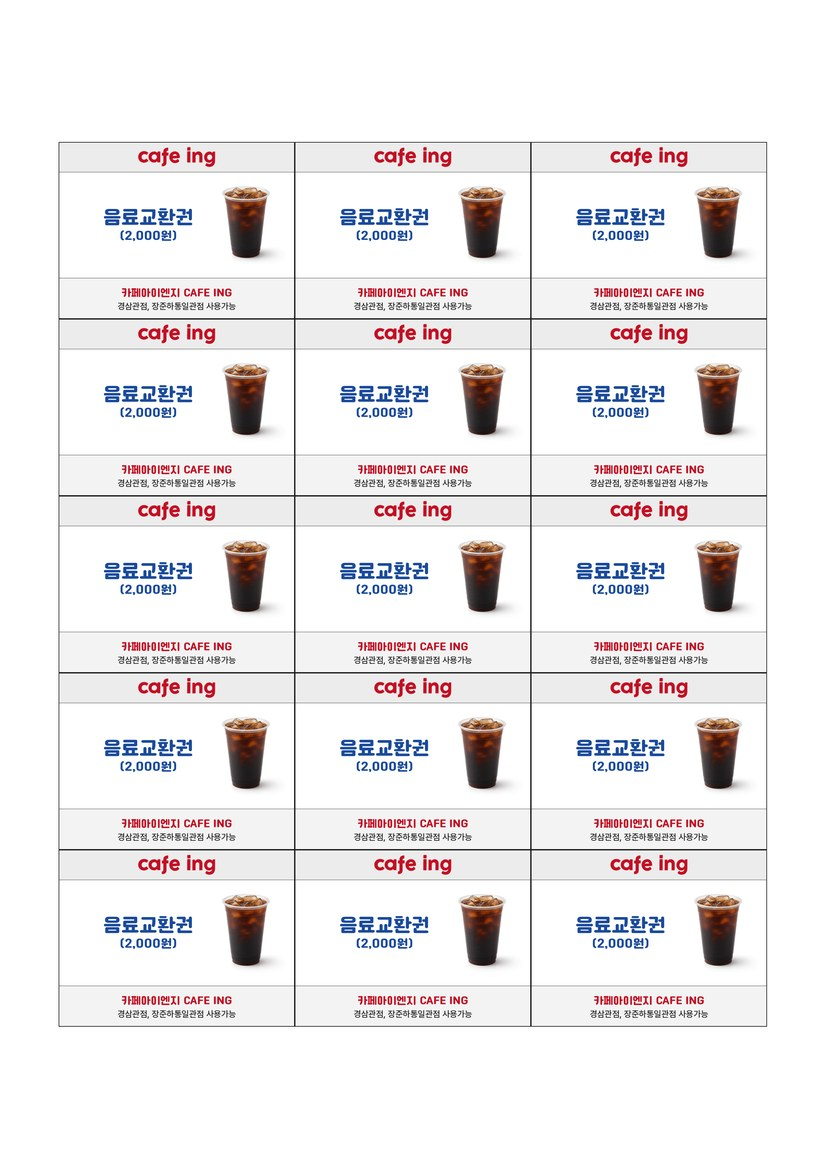
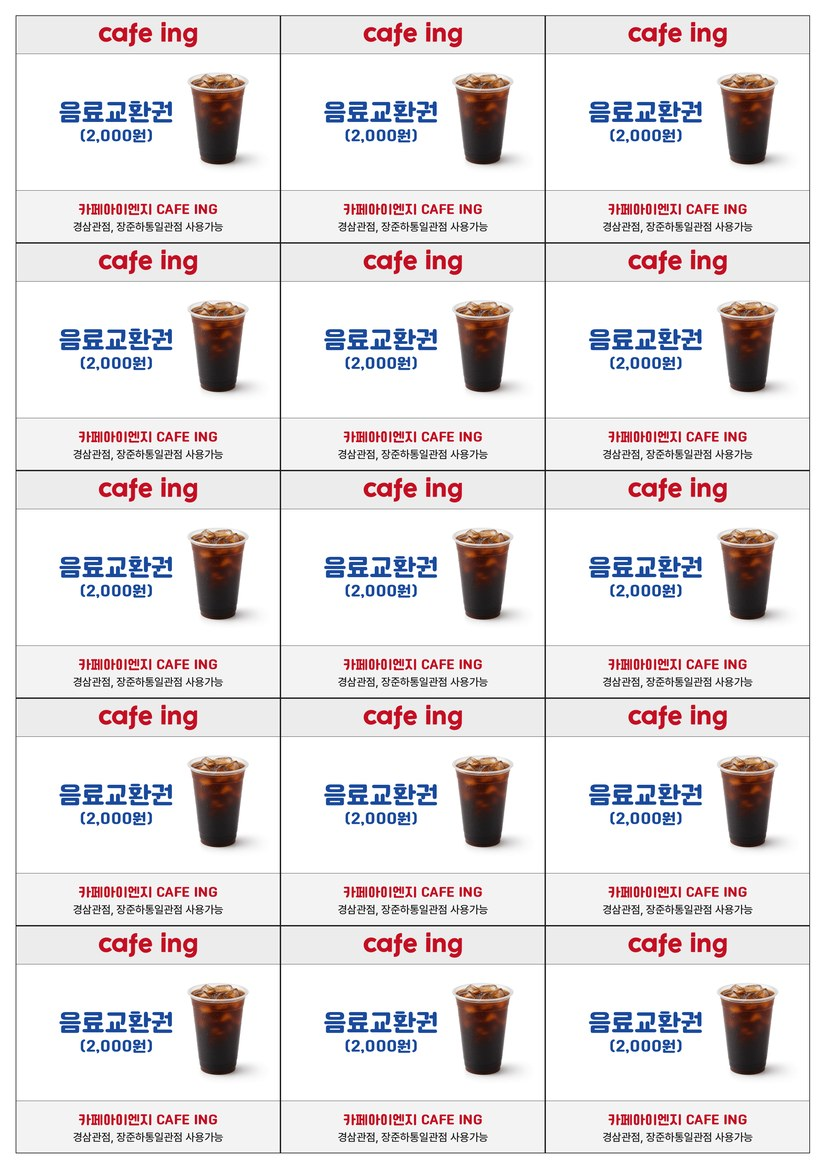
Enlarge the 15 coupons so they nearly fill A4.
Keep the 3-by-5 grid and scale type, logo, and drink art with a 4mm page margin.

diff --git a/cafe-ing-coupon/index.html b/cafe-ing-coupon/index.html
@@ -41,19 +41,19 @@
       height: 297mm;
       background: #fff;
       margin: 16px auto;
-      padding: 36.0mm 15.0mm;
+      padding: 4.0mm 4.0mm;
       box-shadow: 0 4px 24px rgba(0,0,0,.25);
     }
     .grid {
-      width: 180mm;
-      height: 225mm;
+      width: 202.0mm;
+      height: 289.0mm;
       display: grid;
-      grid-template-columns: repeat(3, 60mm);
-      grid-template-rows: repeat(5, 45mm);
+      grid-template-columns: repeat(3, 67.33333333333333mm);
+      grid-template-rows: repeat(5, 57.8mm);
     }
     .coupon {
-      width: 60mm;
-      height: 45mm;
+      width: 67.33333333333333mm;
+      height: 57.8mm;
       border: 0.35pt solid #1e1e1e;
       display: flex;
       flex-direction: column;
@@ -61,7 +61,7 @@
       overflow: hidden;
     }
     .header {
-      height: 7.6mm;
+      height: 9.761777777777777mm;
       background: #ececec;
       border-bottom: 0.35pt solid #323232;
       display: flex;
@@ -69,7 +69,7 @@
       justify-content: center;
     }
     .header .logo {
-      height: 5.2mm;
+      height: 6.67911111111111mm;
       width: auto;
       display: block;
     }
@@ -93,16 +93,16 @@
       font-weight: 700;
     }
     .copy h2 {
-      font-size: 13.6pt;
+      font-size: 17.46844444444444pt;
       line-height: 1.15;
       font-weight: 700;
     }
     .copy p {
-      font-size: 8.6pt;
-      margin-top: 0.8mm;
+      font-size: 11.04622222222222pt;
+      margin-top: 1.0275555555555556mm;
     }
     .drink {
-      height: 20.2mm;
+      height: 25.945777777777774mm;
       width: auto;
       max-width: 42%;
       object-fit: contain;
@@ -110,7 +110,7 @@
       flex-shrink: 0;
     }
     .footer {
-      height: 10.4mm;
+      height: 13.35822222222222mm;
       background: #f3f3f3;
       border-top: 0.35pt solid #323232;
       display: flex;
@@ -126,12 +126,12 @@
       color: #C30F23;
       font-family: "Cafe24Ssurround", sans-serif;
       font-weight: 700;
-      font-size: 7.35pt;
+      font-size: 9.440666666666665pt;
     }
     .footer .place {
       color: #1c1c1c;
       font-family: "Pretendard", sans-serif;
-      font-size: 6.25pt;
+      font-size: 8.027777777777777pt;
     }
     @media print {
       @page { size: A4; margin: 0; }
@@ -148,7 +148,7 @@
 </head>
 <body>
   <div class="toolbar">
-    <div>CAFE ING 음료교환권 (2,000원) · 1매 60×45mm · A4 15매</div>
+    <div>CAFE ING 음료교환권 (2,000원) · 1매 67.3×57.8mm · A4 15매</div>
     <button type="button" onclick="window.print()">인쇄 / PDF 저장</button>
   </div>
   <div class="sheet">

diff --git a/cafe-ing-coupon/generate.py b/cafe-ing-coupon/generate.py
@@ -1,5 +1,5 @@
 #!/usr/bin/env python3
-"""CAFE ING 음료교환권 — 60×45mm × 15매 A4 인쇄물 생성."""
+"""CAFE ING 음료교환권 — A4를 거의 채운 15매 인쇄물 생성."""
 
 from __future__ import annotations
 
@@ -17,12 +17,14 @@ ASSETS = ROOT / "assets"
 FONTS = ROOT / "fonts"
 OUTPUT = ROOT / "output"
 
-COUPON_W_MM = 60
-COUPON_H_MM = 45
 COLS = 3
 ROWS = 5
 A4_W_MM = 210
 A4_H_MM = 297
+PAGE_MARGIN_MM = 4.0
+COUPON_W_MM = (A4_W_MM - 2 * PAGE_MARGIN_MM) / COLS
+COUPON_H_MM = (A4_H_MM - 2 * PAGE_MARGIN_MM) / ROWS
+SCALE = COUPON_H_MM / 45.0
 DPI = 300
 
 NAVY = (26, 74, 156)
@@ -36,8 +38,15 @@ FOOTER_BG = (243, 243, 243)
 LINE = (50, 50, 50)
 BORDER = (30, 30, 30)
 
-HEADER_H_MM = 7.6
-FOOTER_H_MM = 10.4
+HEADER_H_MM = 7.6 * SCALE
+FOOTER_H_MM = 10.4 * SCALE
+TITLE_PT = 13.6 * SCALE
+PRICE_PT = 8.6 * SCALE
+BRAND_PT = 7.35 * SCALE
+PLACE_PT = 6.25 * SCALE
+DRINK_H_MM = 20.2 * SCALE
+LOGO_H_MM = 5.2 * SCALE
+PLACE_LINE = "경삼관점, 장준하통일관점 사용가능"
 
 
 def mm_to_px(mm_val: float, dpi: int = DPI) -> int:
@@ -101,12 +110,12 @@ def draw_coupon_pdf(c: canvas.Canvas, x: float, y: float, drink: ImageReader, lo
     c.line(x, y + footer_h, x + w, y + footer_h)
 
     c.setFillColorRGB(*rgb(RED))
-    c.setFont("Display", 7.35)
-    c.drawCentredString(x + w / 2, y + footer_h - 4.15 * mm, BRAND_KO)
+    c.setFont("Display", BRAND_PT)
+    c.drawCentredString(x + w / 2, y + footer_h * 0.58, BRAND_KO)
 
     c.setFillColorRGB(*rgb(INK))
-    c.setFont("Body", 6.25)
-    c.drawCentredString(x + w / 2, y + 3.15 * mm, "경삼관점, 장준하통일관점 사용가능")
+    c.setFont("Body", PLACE_PT)
+    c.drawCentredString(x + w / 2, y + footer_h * 0.28, PLACE_LINE)
 
     # middle: title + price vertically centered with the drink
     body_top = y + h - header_h
@@ -114,9 +123,9 @@ def draw_coupon_pdf(c: canvas.Canvas, x: float, y: float, drink: ImageReader, lo
     body_h = body_top - body_bot
     body_mid_x = x + w * 0.38
 
-    title_size = 13.6
-    price_size = 8.6
-    gap = 1.2 * mm
+    title_size = TITLE_PT
+    price_size = PRICE_PT
+    gap = 1.2 * mm * SCALE
     title_ascent = pdfmetrics.getAscent("Display") * title_size / 1000
     title_descent = abs(pdfmetrics.getDescent("Display")) * title_size / 1000
     price_ascent = pdfmetrics.getAscent("Display") * price_size / 1000
@@ -132,9 +141,9 @@ def draw_coupon_pdf(c: canvas.Canvas, x: float, y: float, drink: ImageReader, lo
     c.setFont("Display", price_size)
     c.drawCentredString(body_mid_x, price_baseline, "(2,000원)")
 
-    drink_h = 20.2 * mm
+    drink_h = DRINK_H_MM * mm
     drink_w = drink_h * (697 / 848)
-    drink_x = x + w - drink_w - 2.2 * mm
+    drink_x = x + w - drink_w - 2.2 * mm * SCALE
     drink_y = body_bot + (body_h - drink_h) / 2
     c.drawImage(
         drink,
@@ -194,10 +203,10 @@ def render_coupon_png(
     d.line((0, h - footer_h, w, h - footer_h), fill=LINE, width=max(1, mm_to_px(0.12, dpi)))
     d.rectangle((0, 0, w - 1, h - 1), outline=BORDER, width=max(2, mm_to_px(0.16, dpi)))
 
-    display_title = pil_font(paths["display"], 13.6, dpi)
-    display_price = pil_font(paths["display"], 8.6, dpi)
-    display_brand = pil_font(paths["display"], 7.35, dpi)
-    body_place = pil_font(paths["body"], 6.25, dpi)
+    display_title = pil_font(paths["display"], TITLE_PT, dpi)
+    display_price = pil_font(paths["display"], PRICE_PT, dpi)
+    display_brand = pil_font(paths["display"], BRAND_PT, dpi)
+    body_place = pil_font(paths["body"], PLACE_PT, dpi)
 
     def center_text(text: str, font: ImageFont.FreeTypeFont, cy: float, fill) -> None:
         bbox = d.textbbox((0, 0), text, font=font)
@@ -220,7 +229,7 @@ def render_coupon_png(
     price = "(2,000원)"
     title_bbox = d.textbbox((0, 0), title, font=display_title)
     price_bbox = d.textbbox((0, 0), price, font=display_price)
-    gap = mm_to_px(1.2, dpi)
+    gap = mm_to_px(1.2 * SCALE, dpi)
     block_h = (title_bbox[3] - title_bbox[1]) + gap + (price_bbox[3] - price_bbox[1])
     block_top = body_top + (body_h - block_h) / 2
     d.text(
@@ -239,15 +248,15 @@ def render_coupon_png(
         fill=NAVY,
     )
 
-    drink_h = mm_to_px(20.2, dpi)
+    drink_h = mm_to_px(DRINK_H_MM, dpi)
     drink_w = int(drink_h * (drink_im.width / drink_im.height))
     drink = drink_im.resize((drink_w, drink_h), Image.Resampling.LANCZOS)
-    dx = w - drink_w - mm_to_px(2.2, dpi)
+    dx = w - drink_w - mm_to_px(2.2 * SCALE, dpi)
     dy = body_top + (body_h - drink_h) // 2
     img.paste(drink, (dx, dy))
 
     center_text(BRAND_KO, display_brand, h - footer_h + footer_h * 0.36, RED)
-    center_text("경삼관점, 장준하통일관점 사용가능", body_place, h - footer_h + footer_h * 0.70, INK)
+    center_text(PLACE_LINE, body_place, h - footer_h + footer_h * 0.70, INK)
     return img
 
 
@@ -336,7 +345,7 @@ def write_html(html_path: Path) -> None:
       justify-content: center;
     }}
     .header .logo {{
-      height: 5.2mm;
+      height: {LOGO_H_MM}mm;
       width: auto;
       display: block;
     }}
@@ -360,16 +369,16 @@ def write_html(html_path: Path) -> None:
       font-weight: 700;
     }}
     .copy h2 {{
-      font-size: 13.6pt;
+      font-size: {TITLE_PT}pt;
       line-height: 1.15;
       font-weight: 700;
     }}
     .copy p {{
-      font-size: 8.6pt;
-      margin-top: 0.8mm;
+      font-size: {PRICE_PT}pt;
+      margin-top: {0.8 * SCALE}mm;
     }}
     .drink {{
-      height: 20.2mm;
+      height: {DRINK_H_MM}mm;
       width: auto;
       max-width: 42%;
       object-fit: contain;
@@ -393,12 +402,12 @@ def write_html(html_path: Path) -> None:
       color: {RED_HEX};
       font-family: "Cafe24Ssurround", sans-serif;
       font-weight: 700;
-      font-size: 7.35pt;
+      font-size: {BRAND_PT}pt;
     }}
     .footer .place {{
       color: #1c1c1c;
       font-family: "Pretendard", sans-serif;
-      font-size: 6.25pt;
+      font-size: {PLACE_PT}pt;
     }}
     @media print {{
       @page {{ size: A4; margin: 0; }}
@@ -415,7 +424,7 @@ def write_html(html_path: Path) -> None:
 </head>
 <body>
   <div class="toolbar">
-    <div>CAFE ING 음료교환권 (2,000원) · 1매 60×45mm · A4 15매</div>
+    <div>CAFE ING 음료교환권 (2,000원) · 1매 {COUPON_W_MM:.1f}×{COUPON_H_MM:.1f}mm · A4 15매</div>
     <button type="button" onclick="window.print()">인쇄 / PDF 저장</button>
   </div>
   <div class="sheet">

diff --git a/cafe-ing-coupon/README.md b/cafe-ing-coupon/README.md
@@ -9,14 +9,14 @@
 | 하단 1줄 | 카페아이엔지 CAFE ING |
 | 하단 2줄 | 경삼관점, 장준하통일관점 사용가능 |
 | 삭제 | 유효기간, 하단 우측 로고 |
-| 1매 크기 | **가로 60mm × 세로 45mm** |
+| 1매 크기 | A4를 거의 채움 (**약 67.3mm × 57.8mm**, 여백 4mm) |
 | 인쇄 | **A4 용지 15매** (3열 × 5행) |
 
 ## 바로 인쇄하기
 
 1. [`output/CAFE_ING_음료교환권_2000원_A4_15매.pdf`](output/CAFE_ING_음료교환권_2000원_A4_15매.pdf) 를 엽니다.
 2. 용지 크기 **A4**, 배율 **100%** (맞춤/맞춤 축소 해제), 양면 아님.
-3. 테두리를 따라 가로 6cm, 세로 4.5cm로 자릅니다.
+3. 테두리를 따라 자릅니다. 1매는 약 **6.7cm × 5.8cm** 입니다.
 
 브라우저에서 보거나 다시 인쇄하려면 [`index.html`](index.html) 을 연 뒤 **인쇄 / PDF 저장**을 누르면 됩니다.
 
